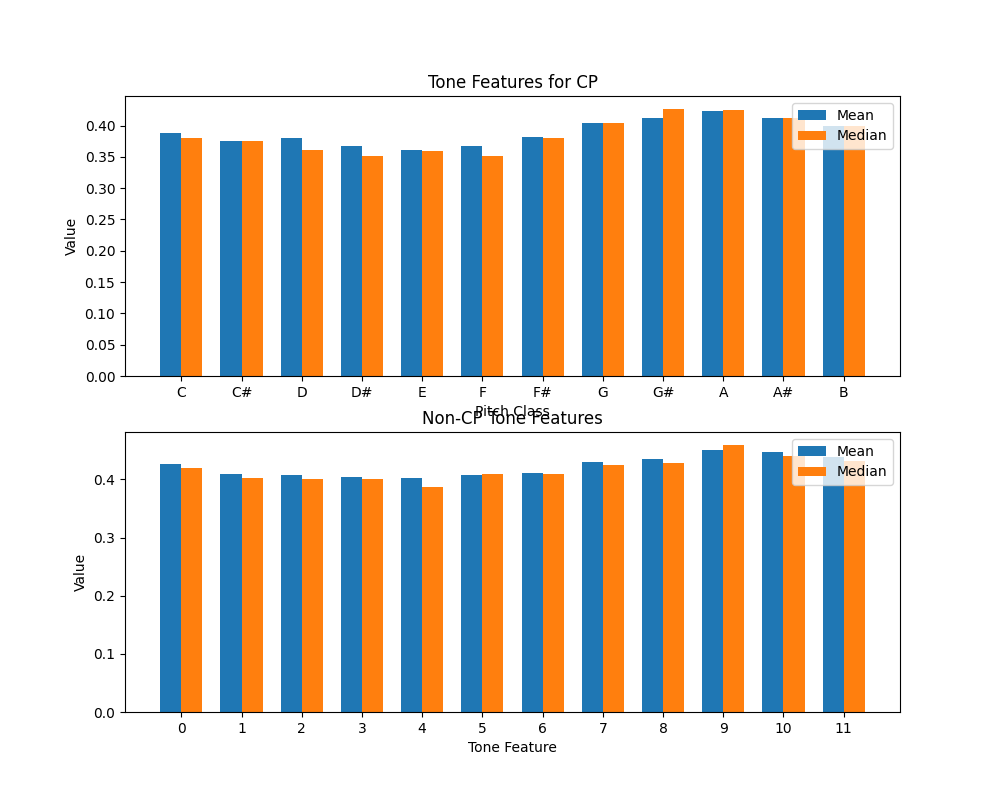
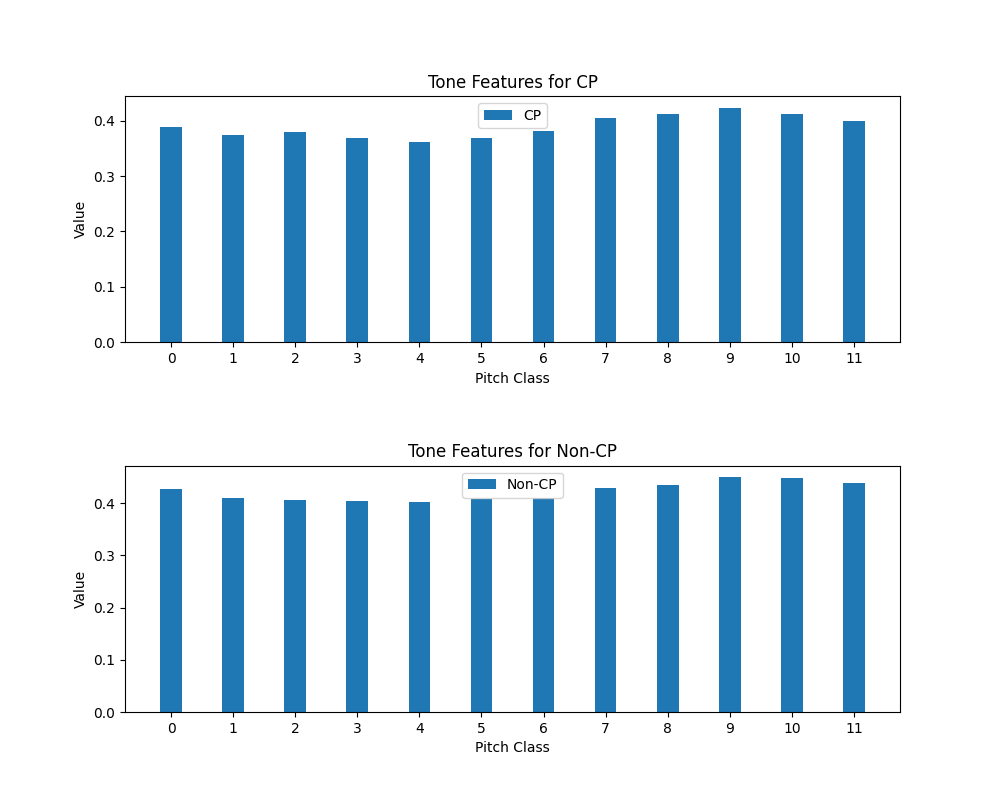
add vis results

diff --git a/unsupervised/side_modules/tone_predictor/full_extract_audio_tone.py b/unsupervised/side_modules/tone_predictor/full_extract_audio_tone.py
@@ -16,7 +16,7 @@ if __name__ == "__main__":
     noncp_tone_features = []
 
     # Iterate over rows in data
-    for index, row in tqdm(data.head(10).iterrows(), total=len(data)):
+    for index, row in tqdm(data.head(100).iterrows(), total=len(data)):
         audio_file = row['audio_path']
 
         try:
@@ -34,8 +34,11 @@ if __name__ == "__main__":
         # Compute tone features for each segment
         tone_features = []
         for segment in audio_segments:
-            tonnetz = librosa.feature.tonnetz(y=segment, sr=sr)
-            tone_features.append(tonnetz.T)
+            # chroma = librosa.feature.chroma_stft(y=segment, sr=sr)
+            # mfcc = librosa.feature.mfcc(y=segment, sr=sr)
+            spectral_contrast = librosa.feature.spectral_contrast(y=segment, sr=sr)
+            # tonnetz = librosa.feature.tonnetz(y=segment, sr=sr)
+            tone_features.append(spectral_contrast.T)
 
         # Convert list of tone feature arrays to a single numpy array
         try:

diff --git a/unsupervised/side_modules/tone_predictor/README.md b/unsupervised/side_modules/tone_predictor/README.md
@@ -10,8 +10,11 @@ Bar plot for a sampled balanced set of audio segments regarding the tone feature
 ```
 python full_extract_audio_tone.py
 ```
-![Expected output using tonnetz features](output/tonnetz.png)
+![Expected output using tonnetz features](tonnetz.png)
 ![Expected output using chroma features](output/chroma.png)
+![Expected output using spectral_contrast features](output/spectral_contrast.png)
+![Expected output using mfcc features](output/mfcc.png)
+
 
 Visualize the types of features (audio emotional features/tone features)
 
